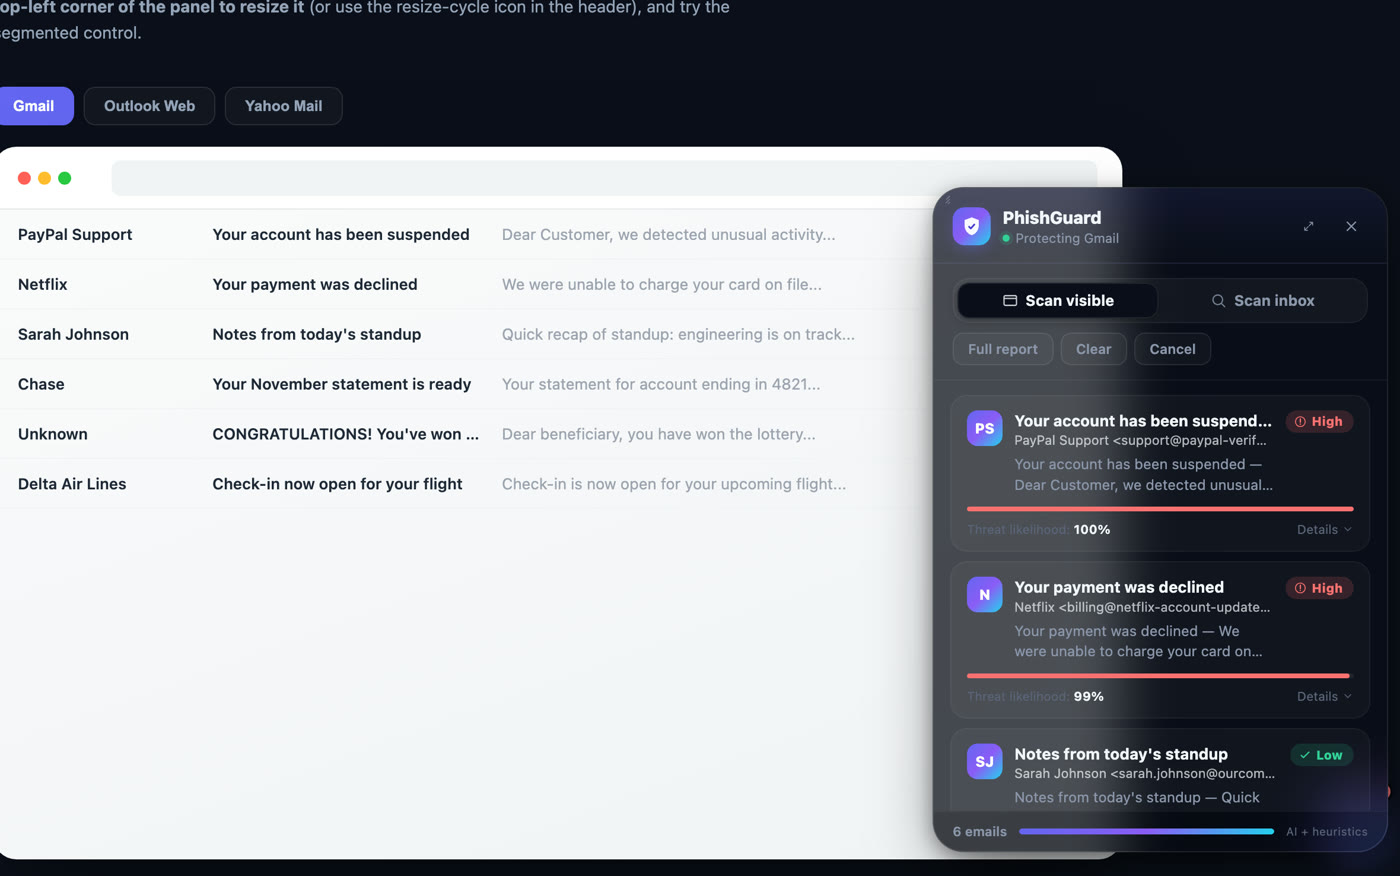
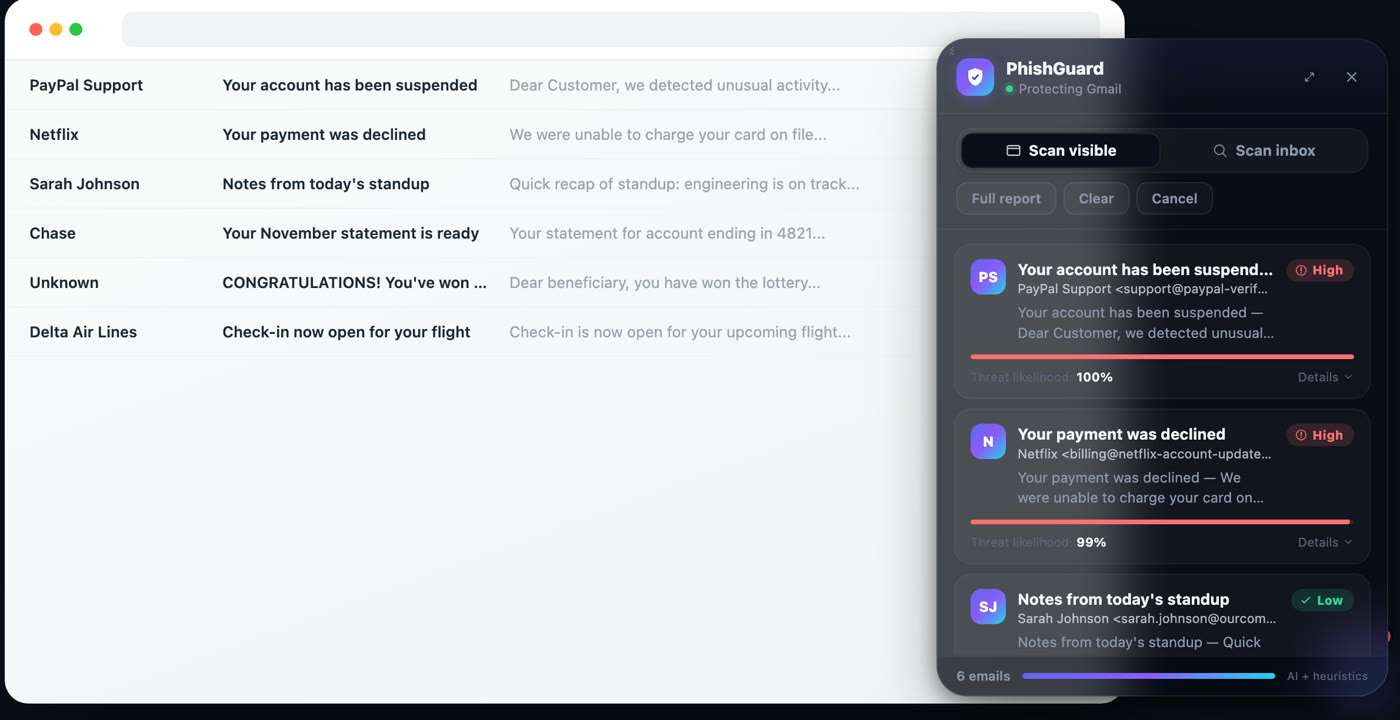
Tighter PhishGuard screenshot crop

diff --git a/index.html b/index.html
@@ -414,7 +414,7 @@
   <div class="label">Projects</div>
   <div class="projects">
     <article class="proj reveal">
-      <div class="cover"><img src="assets/phishguard-ui.jpg" alt="PhishGuard panel flagging phishing emails in a Gmail inbox" style="object-position:70% 30%"><span>Running live · mock inbox</span></div>
+      <div class="cover"><img src="assets/phishguard-ui.jpg" alt="PhishGuard panel flagging phishing emails in a Gmail inbox" style="object-position:60% 0%"><span>Running live · mock inbox</span></div>
       <div class="body">
         <h3>PhishGuard</h3>
         <p>A Chrome extension and API that scans your inbox for phishing and malicious emails, using an AI model plus rule-based checks on wording, links and identifiers.</p>
